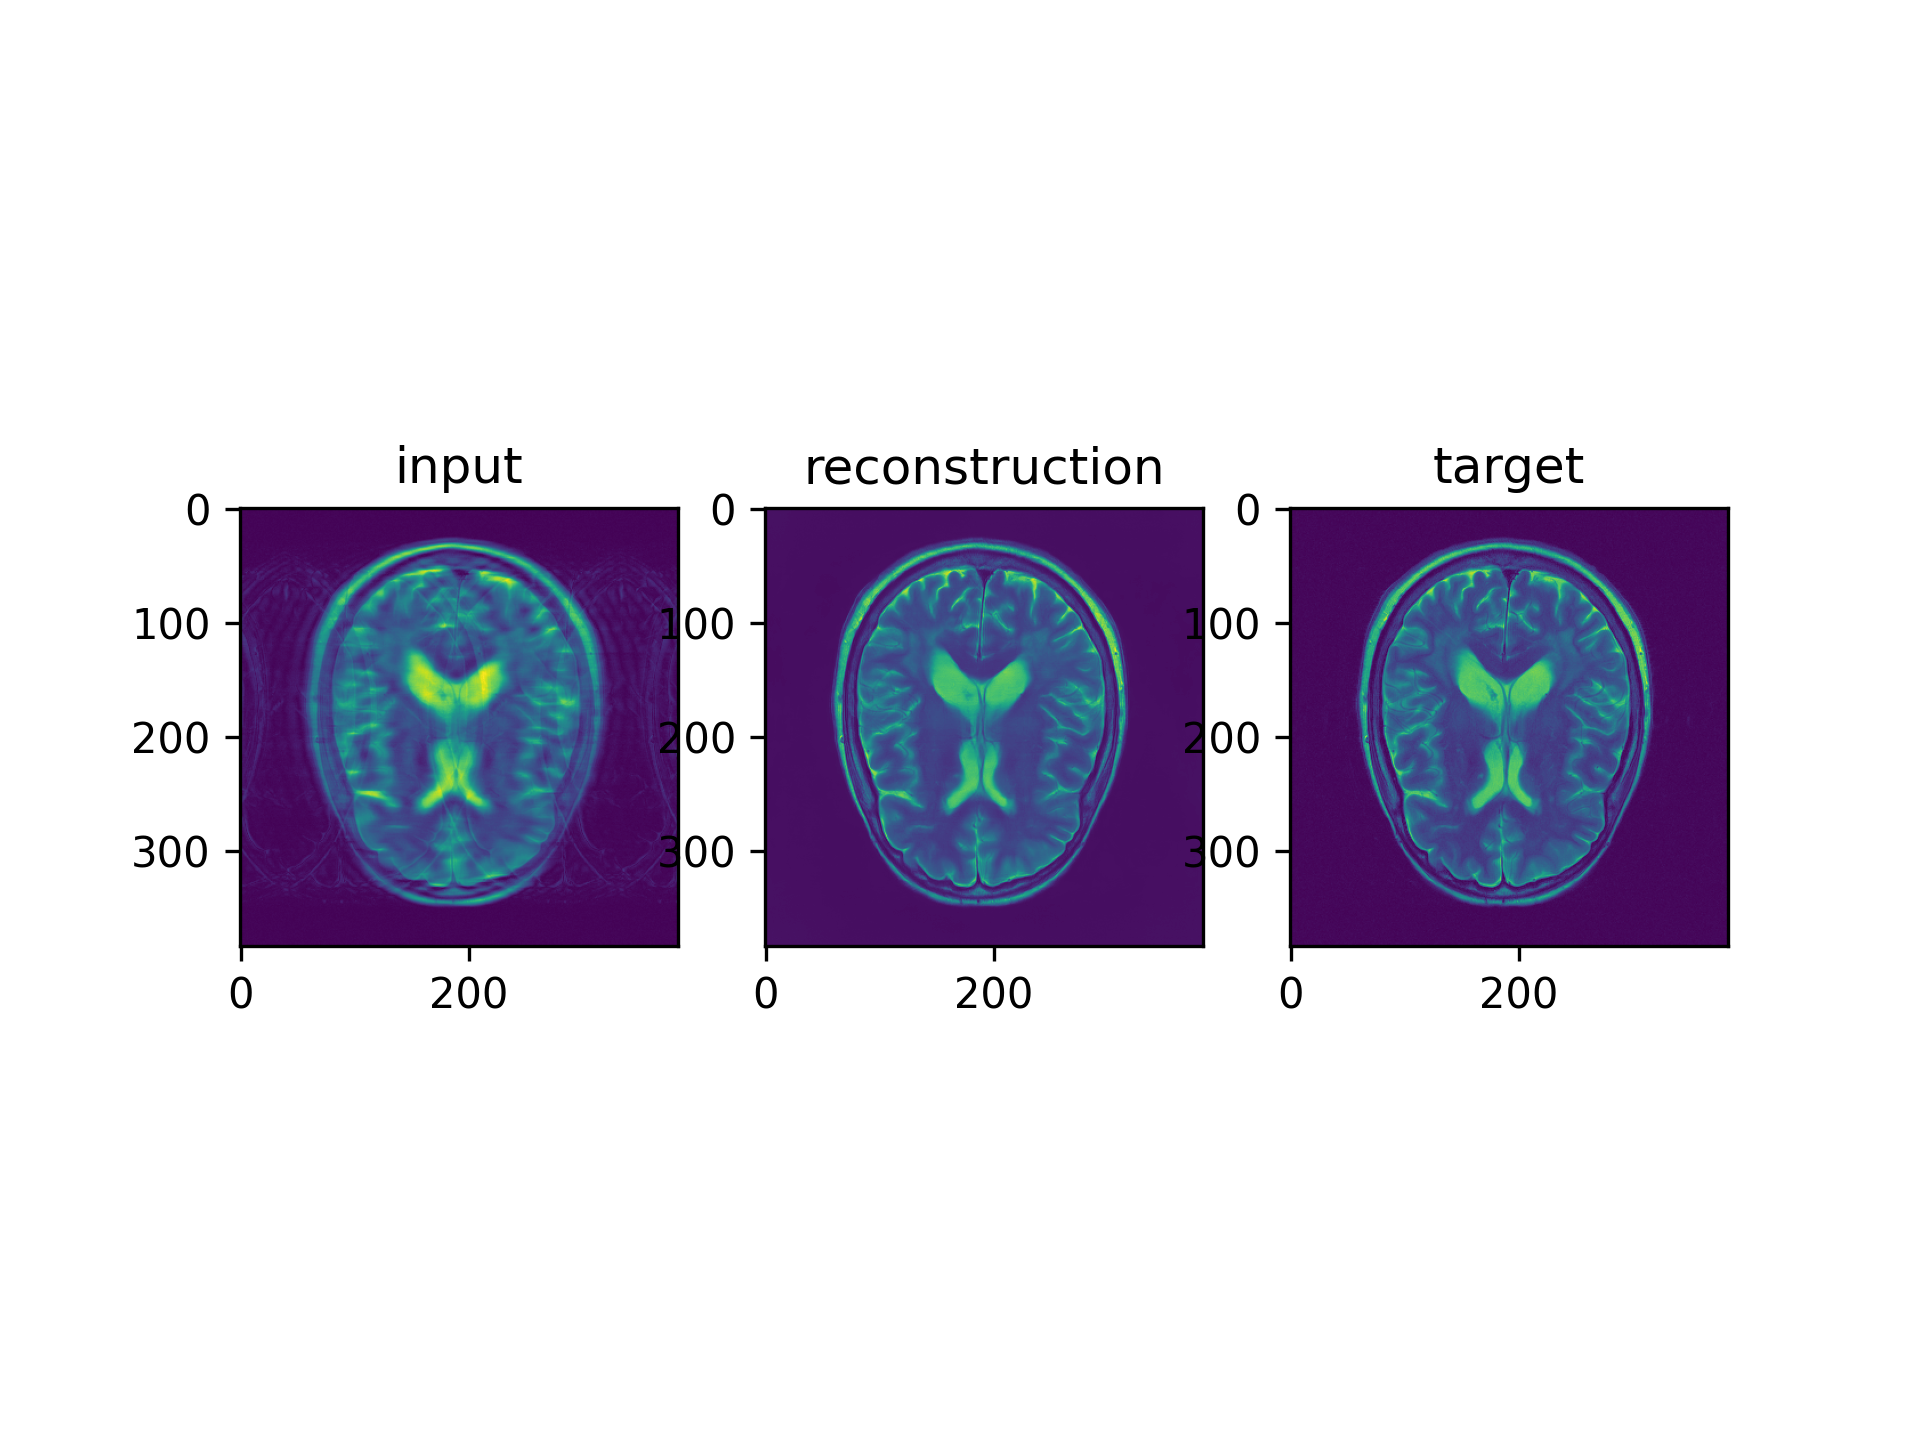
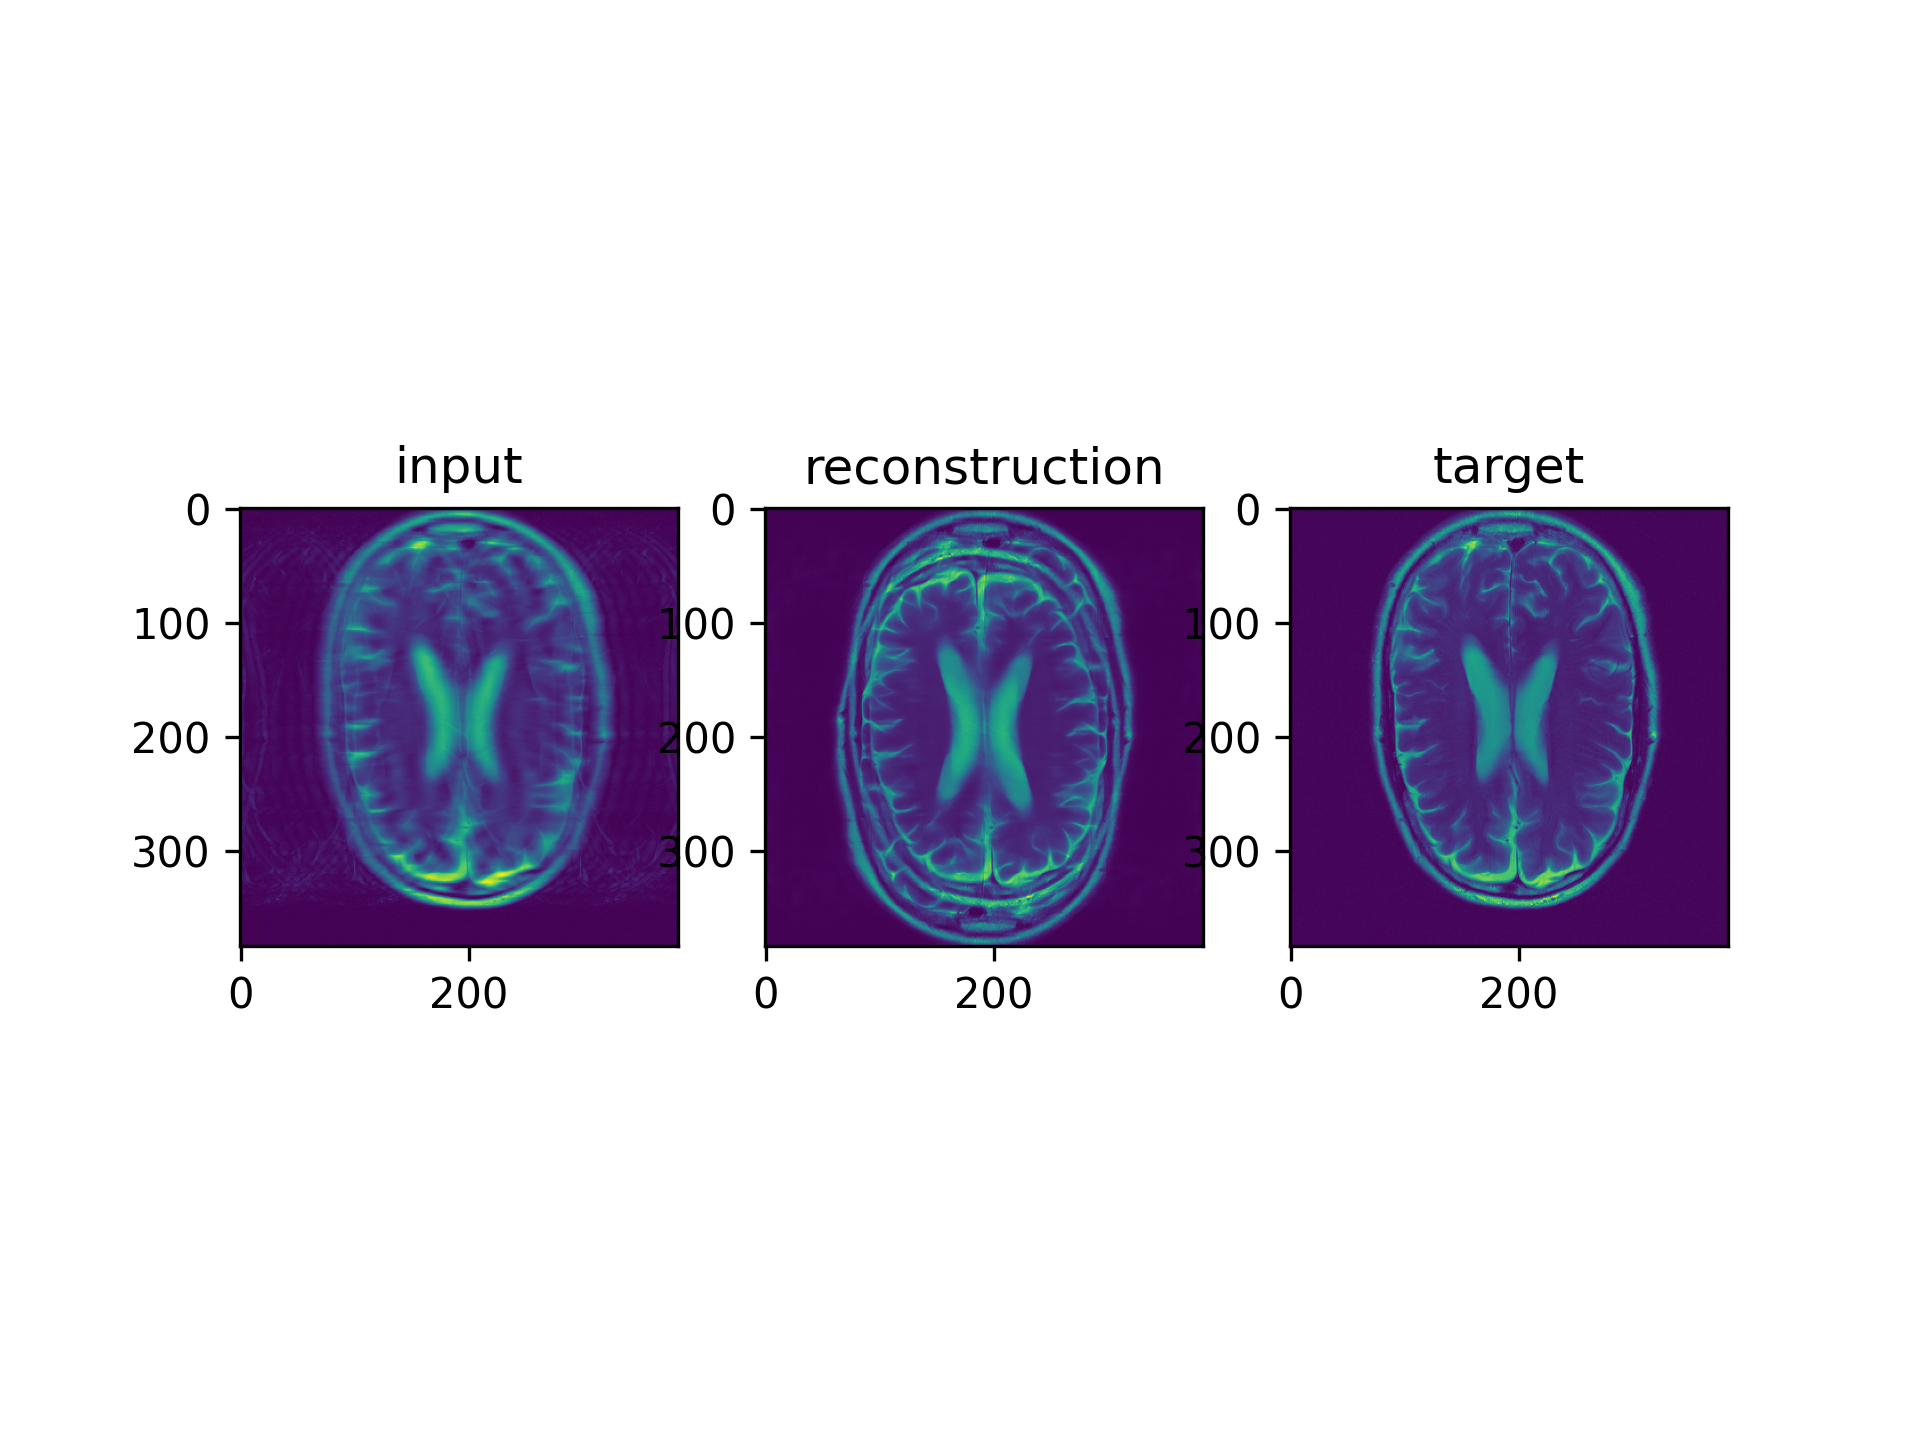
updating new branch

Changed region(s): [[0.6875, 0.3438, 0.875, 0.6562], [0.4062, 0.3438, 0.5938, 0.6562], [0.1562, 0.3438, 0.3438, 0.6562]]

diff --git a/FastMRI_challenge-2023_baby_unet/utils/learning/.ipynb_checkpoints/train_part_Copy1-checkpoint.py b/FastMRI_challenge-2023_baby_unet/utils/learning/.ipynb_checkpoints/train_part_Copy1-checkpoint.py
@@ -134,14 +134,14 @@ def save_model(args, exp_dir, epoch, model_list, optimizer_list, best_val_loss, 
             'model_2': model_list[1].state_dict(),
             'model_3': model_list[2].state_dict(),
             'model_4': model_list[3].state_dict(),
-            'model_5': model_list[3].state_dict(),
-            'model_6': model_list[3].state_dict(),
+            'model_5': model_list[4].state_dict(),
+            'model_6': model_list[5].state_dict(),
             'optimizer_1': optimizer_list[0].state_dict(),
             'optimizer_2': optimizer_list[1].state_dict(),
             'optimizer_3': optimizer_list[2].state_dict(),
             'optimizer_4': optimizer_list[3].state_dict(),
-            'optimizer_5': optimizer_list[3].state_dict(),
-            'optimizer_6': optimizer_list[3].state_dict(),
+            'optimizer_5': optimizer_list[4].state_dict(),
+            'optimizer_6': optimizer_list[5].state_dict(),
             'best_val_loss': best_val_loss,
             'exp_dir': exp_dir
         },

diff --git a/FastMRI_challenge-2023_baby_unet/utils/learning/train_part_Copy1.py b/FastMRI_challenge-2023_baby_unet/utils/learning/train_part_Copy1.py
@@ -134,14 +134,14 @@ def save_model(args, exp_dir, epoch, model_list, optimizer_list, best_val_loss, 
             'model_2': model_list[1].state_dict(),
             'model_3': model_list[2].state_dict(),
             'model_4': model_list[3].state_dict(),
-            'model_5': model_list[3].state_dict(),
-            'model_6': model_list[3].state_dict(),
+            'model_5': model_list[4].state_dict(),
+            'model_6': model_list[5].state_dict(),
             'optimizer_1': optimizer_list[0].state_dict(),
             'optimizer_2': optimizer_list[1].state_dict(),
             'optimizer_3': optimizer_list[2].state_dict(),
             'optimizer_4': optimizer_list[3].state_dict(),
-            'optimizer_5': optimizer_list[3].state_dict(),
-            'optimizer_6': optimizer_list[3].state_dict(),
+            'optimizer_5': optimizer_list[4].state_dict(),
+            'optimizer_6': optimizer_list[5].state_dict(),
             'best_val_loss': best_val_loss,
             'exp_dir': exp_dir
         },

diff --git a/FastMRI_challenge-2023_baby_unet/.ipynb_checkpoints/plot-checkpoint.py b/FastMRI_challenge-2023_baby_unet/.ipynb_checkpoints/plot-checkpoint.py
@@ -1,7 +1,7 @@
 import h5py
 import matplotlib.pyplot as plt
 
-f = h5py.File('../result/test_Unet/reconstructions_val/brain_acc4_179.h5', 'r')
+f = h5py.File('../result/rudanet/reconstructions_val/brain_acc4_184.h5', 'r')
 # f = h5py.File('YOUR FILE PATH', 'r')
 
 input = f['input']

diff --git a/FastMRI_challenge-2023_baby_unet/plot.py b/FastMRI_challenge-2023_baby_unet/plot.py
@@ -1,7 +1,7 @@
 import h5py
 import matplotlib.pyplot as plt
 
-f = h5py.File('../result/test_Unet/reconstructions_val/brain_acc4_179.h5', 'r')
+f = h5py.File('../result/rudanet/reconstructions_val/brain_acc4_184.h5', 'r')
 # f = h5py.File('YOUR FILE PATH', 'r')
 
 input = f['input']
